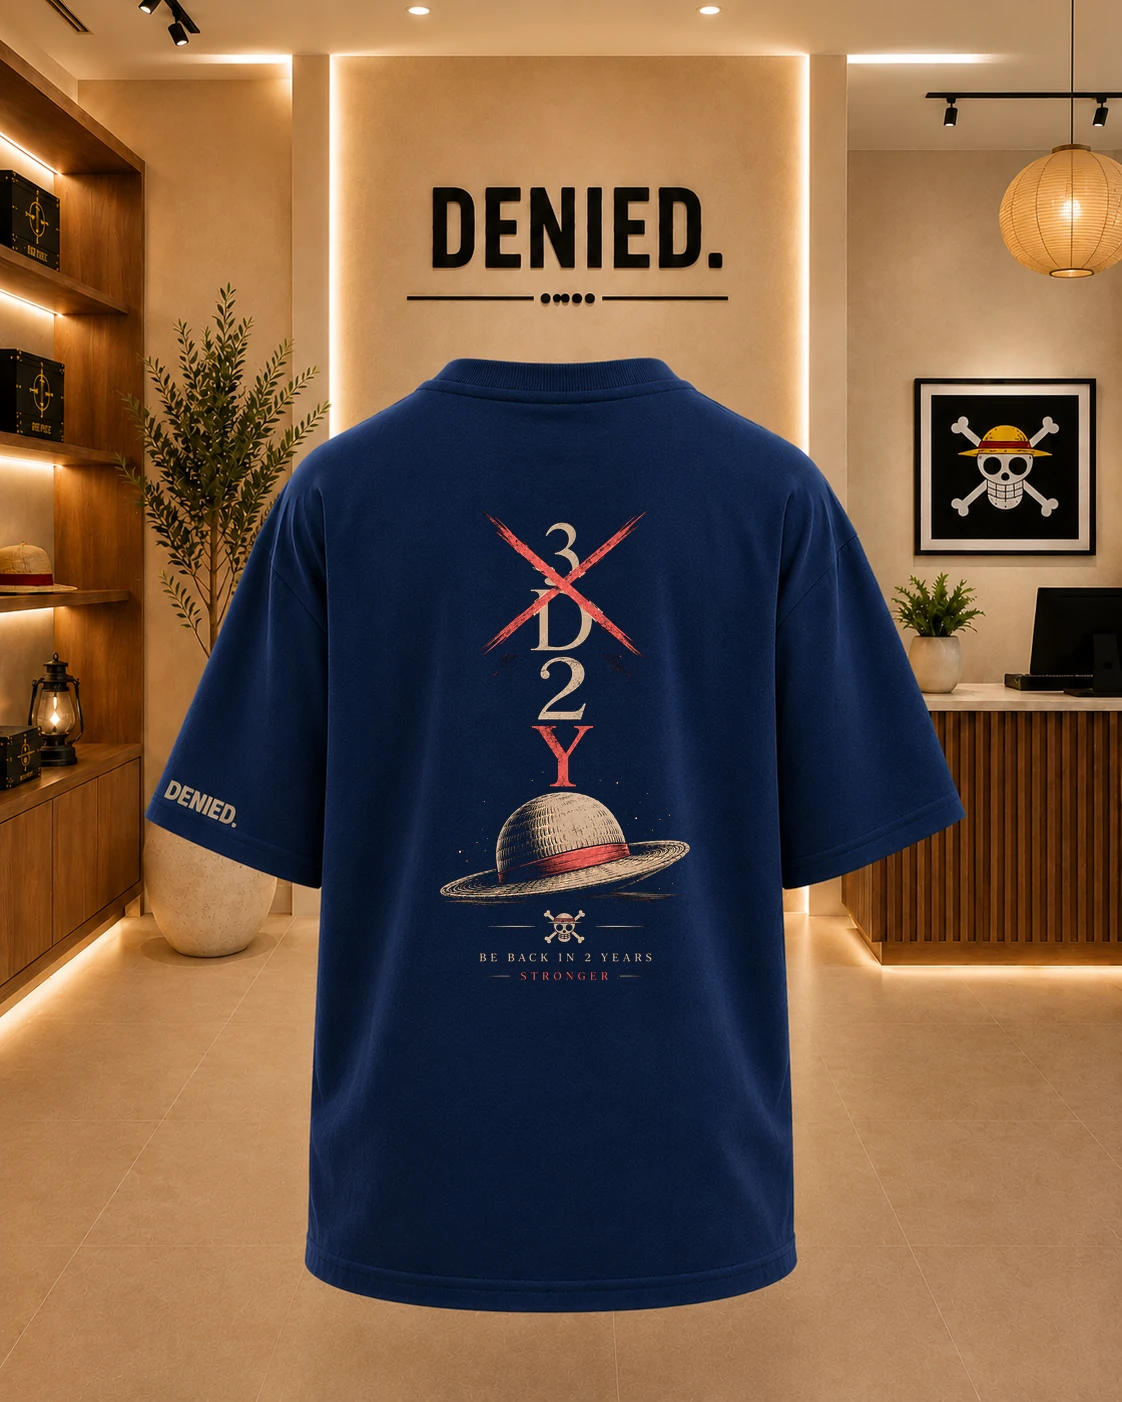
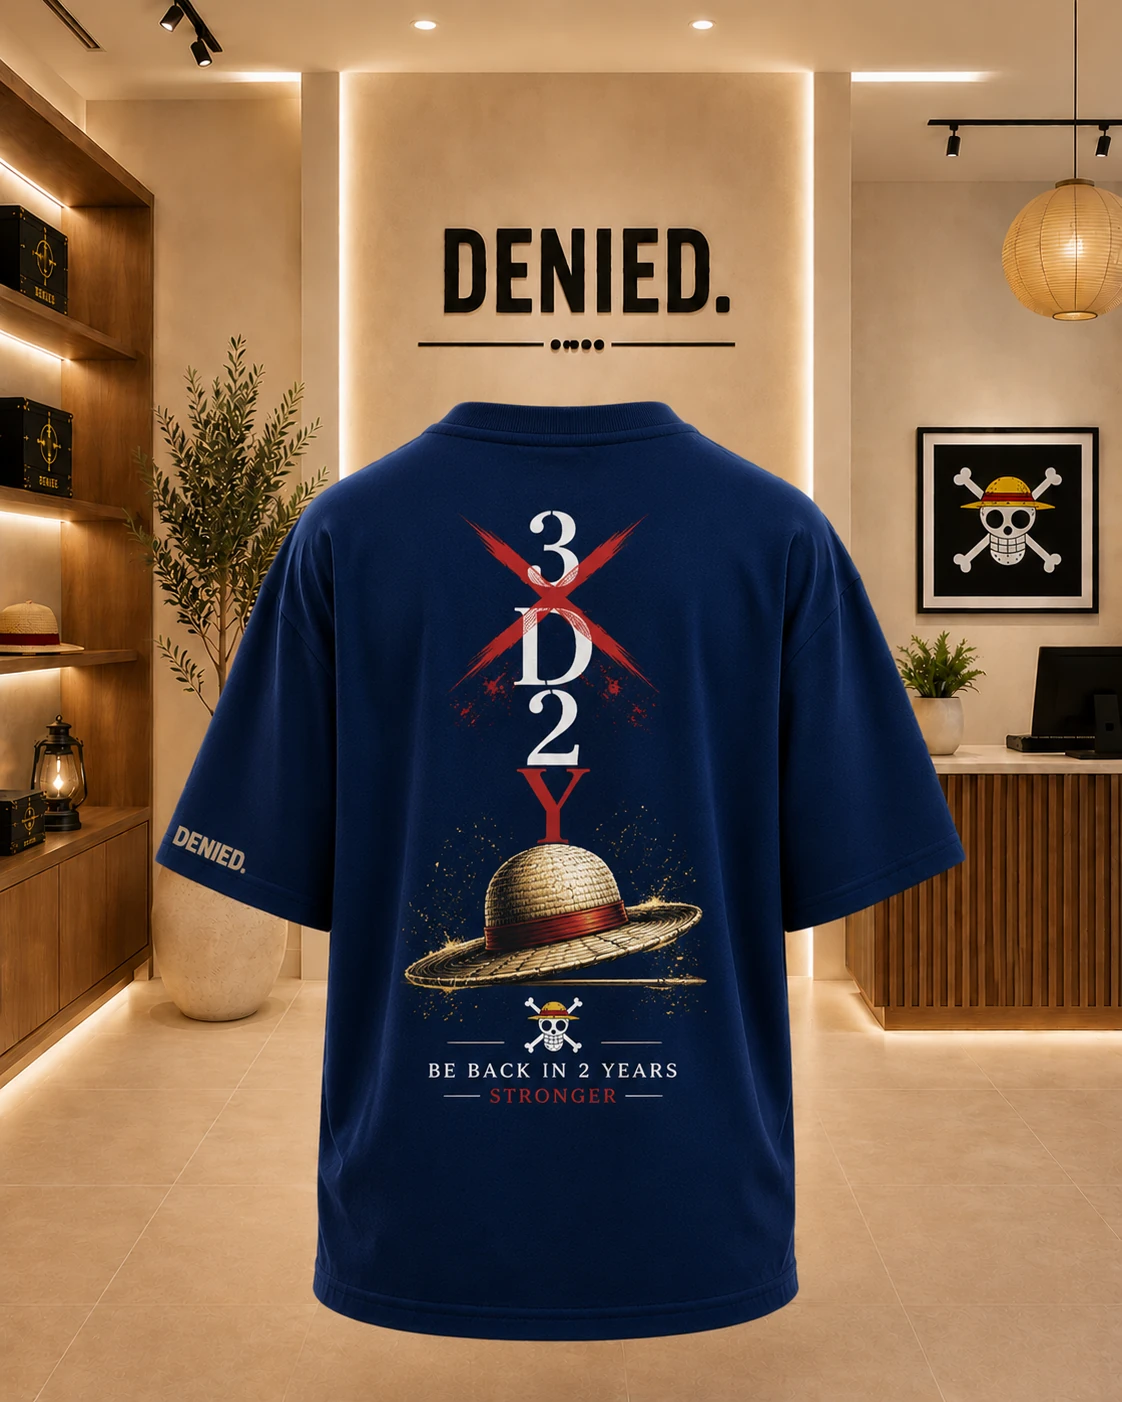
Anime chapter: owner-curated image sets, front crest as image 2

diff --git a/src/data/products.ts b/src/data/products.ts
@@ -115,10 +115,12 @@ const ANIME_DETAILS = {
   sizes: ["XS", "S", "M", "L", "XL", "XXL"],
 };
 
-/** Compact builder for the Anime saga tees — every design in Black + Navy. */
+/** Compact builder for the Anime saga tees — every design in Black + Navy.
+ *  Three shots per colour: back print (hero), the saga crest front (shared
+ *  across the saga), model back. */
 function animeTee(id: number, name: string, segment: string, description: string): Product {
   const shots = (colour: string) =>
-    [1, 2].map((n) => `/Products/TShirts/TheChapter/Anime/${segment}/${colour}/${n}.webp`);
+    [1, 2, 3].map((n) => `/Products/TShirts/TheChapter/Anime/${segment}/${colour}/${n}.webp`);
   return {
     id,
     name,
